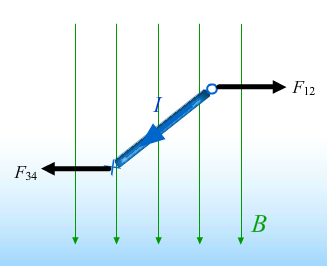
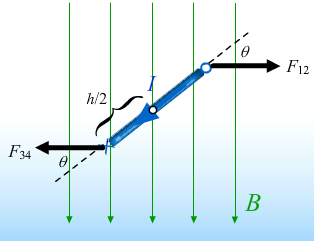
update

Changed region(s): [[0.0287, 0.029, 1.0, 0.9295], [0.4013, 0.4066, 0.4299, 0.4357]]

diff --git a/PreLectures/prelecture_13_forces_and_torques_on_currents/prelecture_13_forces_and_torques_on_currents.md b/PreLectures/prelecture_13_forces_and_torques_on_currents/prelecture_13_forces_and_torques_on_currents.md
@@ -111,11 +111,79 @@ segment, rank these forces from largest to smallest.
       * \[\vec F_{23} + \vec F_{41} = 0\]
 
 ## Torque on a Current Loop
-* While net force on a loop is zero, torque is usually not zero.
+* While net force on a loop is zero, torque is usually not zero
+* \[\tau_{loop} = I A B \sin \theta\]
   * [[torque_on_current_loop.png]]
   * Recall that the torque on an object is equal to the cross 
     product of that force and the distance to where the force is applied.
-      * [\vec \tau  = \vec r \times \vec F\]
+      * \[\vec \tau  = \vec r \times \vec F\]
       * Magnitude \[tau = r F \sin \theta\]
   * Consider the side view of the closed loop rotated on it's axis
       * [[torque_on_current_loop_side.png]]
+      * \[\tau_{12} = \frac{ h}{ 2} F_{12} \sin \theta\]
+      * \[\tau_{34} = \frac{ h}{ 2} F_{34} \sin \theta\]
+      * both \[\tau_{34}\] and \[\tau_{12}\] tend to rotate the loop clockwise
+      * \[\tau_{total} = \frac{ h}{ 2} (F_{12} + F_{34}) \sin \theta\]
+      * \[= \frac{ h}{ 2} (2 I w B) \sin \theta\]
+            * since \[F_{12} = F_{34} = I w B\]
+      * hence \[\tau_{loop} = I w h B \sin \theta\] where \[w\] is the width 
+        and \[h\] is the height and in turn \[w h\] is the area of the loop.
+      * therefore we are able to generalize this for any loop \[\tau_{loop} = I A B \sin \theta\]
+
+
+## Question 3
+Three cases involving identical forces acting on 
+identical sticks are shown at the right. Compare 
+the magnitudes of torques about an axis through 
+the center of the sticks.
+
+[[q3.png]]
+
+* \[\text{Torque}( A) > \text{Torque}( B) > \text{Torque}( C)\]
+  * The magnitude of the torque due to a force \[F\] is the product 
+    of the magnitude of the force and the lever arm, defined as the 
+    perpendicular distance from the rotation axis to the line defined 
+    by the force. Since the forces are all the same in the cases shown 
+    here, the relative lengths of the lever arms will define the 
+    relative magnitudes of the torques:
+  * [[q3a.png]]
+
+## Dipole Moment of a Current Loop
+* Previously, looked at torque within a loop which is dependent of three things
+  * Current in the loop
+  * Area defined by the loop
+  * Orientation of the loop with respect the magnetic field
+* Now, combine all three of the components which define the torque 
+  into one new quantity the magnetic dipole of a loop.
+  * Area Vector
+      * \[|\vec A|\] is the area of the loop
+      * direction of \[A\] is perpendicular to the plane defined by the loop.
+          * Define the positive direction of \[A\] using the direction of the current
+          * Curl fingers in direction of \[I\]
+          * Thumb points in direction of \[\vec A\]
+  * Magnetic Dipole momoent
+      * \[\vec \mu = I \vec A\]
+      * or for a soy a coil containing \[N\] turns \[\vec \mu = N I \vec A\]
+  * Torque on a loop
+      * \[\vec \tau = \vec \mu \times \vec B\]
+
+
+## Potential Energy of Dipole in B Field
+* \[U(\theta) = -\vec \mu \cdot \vec B\]
+  * we just saw that the torque on a current loop in a magnetic field depends
+    on the orientation of the loop magnetic moment vector with respect to 
+    the magnetic field.
+  * recall \[W = \int \tau d \theta 
+    = \int\limits_{90^{\circ}}^{0^{\circ}}{ (-\mu B \sin \theta) d \theta = \mu B}\]
+  * We can define work between any two starting and stopping points as 
+    \[W = \int\limits_{\theta_1}^{\theta_2}{ (- \mu B \sin \theta) d \theta}\]
+  * looking at potential energy 
+      * \[\Delta U = -W_{\text{by B field}} 
+        = \int\limits_{\theta_1}^{\theta_2}{ (- \mu B \sin \theta) d \theta}\]
+      * \[U( \theta) = \int\limits_{90^{\circ}}^{\theta}{ (- \mu B \sin \theta) d \theta}
+        = -\mu B (\cos \theta - \cos 90^{\circ}) = -\mu B \cos \theta = \vec \mu \cdot \vec B\]
+
+
+## Summary: The Main Ideas
+* First we investigated the force on a current carrying wire by a magnetic field
+  * \[\vec F = I \vec L \times \vec B\]
